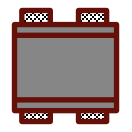
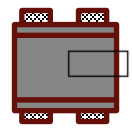
car rotation

Changed region(s): [[0.5152, 0.3636, 1.0, 0.6061]]

diff --git a/src/main/java/edu/ntu/mdpg7algo/visualization/ArenaPanel.java b/src/main/java/edu/ntu/mdpg7algo/visualization/ArenaPanel.java
@@ -1,6 +1,5 @@
 package edu.ntu.mdpg7algo.visualization;
 
-import edu.ntu.mdpg7algo.Simulator;
 import edu.ntu.mdpg7algo.models.Arena;
 import edu.ntu.mdpg7algo.models.Obstacle;
 import lombok.Data;
@@ -10,6 +9,8 @@ import javax.swing.*;
 import java.awt.*;
 import java.awt.event.MouseAdapter;
 import java.awt.event.MouseEvent;
+import java.awt.geom.AffineTransform;
+import java.awt.image.BufferedImage;
 import java.io.File;
 import java.io.IOException;
 
@@ -56,6 +57,9 @@ public class ArenaPanel extends JPanel {
         });
     }
 
+    /**
+     * JFrame x -> cellX
+     */
     private int getCellX(double absX) {
         if (absX < x0 || x0 + w < absX) {
             return -1;
@@ -63,6 +67,9 @@ public class ArenaPanel extends JPanel {
         return (int) ((absX - x0) / cellW);
     }
 
+    /**
+     * JFrame y -> cellY
+     */
     private int getCellY(double absY) {
         if (absY < y0 || y0 + h < absY) {
             return -1;
@@ -70,12 +77,45 @@ public class ArenaPanel extends JPanel {
         return 19 - (int) ((absY - y0) / cellH);
     }
 
+    /**
+     * cellY -> gridY
+     */
     private int convertGridY(int cellY) {
         return 19 - cellY;
     }
 
+    /**
+     * arena x -> JFrame x
+     */
+    private int convertJFrameX(double x) {
+        return (int) (x / (Arena.CELL_WIDTH * Arena.NUM_COLS) * w) + x0;
+    }
+
+    /**
+     * arena y -> JFrame y
+     */
+    private int convertJFrameY(double y) {
+        return (int) (h - (y / (Arena.CELL_HEIGHT * Arena.NUM_ROWS) * h) + y0);
+    }
+
+    private BufferedImage rotateImage(BufferedImage img, double rads, int w, int h, int newWidth, int newHeight) {
+        BufferedImage rotated = new BufferedImage(newWidth, newHeight, BufferedImage.TYPE_INT_ARGB);
+        Graphics2D g2d = rotated.createGraphics();
+        AffineTransform at = new AffineTransform();
+        at.translate((newWidth - w) / 2., (newHeight - h) / 2.);
+
+        int x = w / 2;
+        int y = h / 2;
+
+        at.rotate(rads, x, y);
+        g2d.setTransform(at);
+        g2d.drawImage(img, 0, 0, this);
+        g2d.dispose();
+
+        return rotated;
+    }
+
     public void paintComponent(Graphics g) {
-        System.out.println("called");
         super.paintComponent(g);
         // draw horizontal lines
         for (int i = 0; i <= NUM_ROW; i++) {
@@ -92,9 +132,29 @@ public class ArenaPanel extends JPanel {
         }
 
         try {
-            Image image = ImageIO.read(new File("assets/car.png"));
-            image = image.getScaledInstance(30, 30, Image.SCALE_DEFAULT);
-            double carX = arena.getCar().getPosition().getX(), carY = arena.getCar().getPosition().getY();
+            BufferedImage image = ImageIO.read(new File("assets/car.png"));
+            Image scaledImage = image.getScaledInstance((int) (cellW * 1.5), (int) (cellH * 1.5), Image.SCALE_DEFAULT);
+            image = new BufferedImage((int) (cellW * 1.5), (int) (cellH * 1.5), BufferedImage.TYPE_INT_ARGB);
+            Graphics2D g2d = image.createGraphics();
+            g2d.drawImage(scaledImage, 0, 0, null);
+            g2d.dispose();
+
+            double rads = arena.getCar().getPosition().getTheta();
+            double sin = Math.abs(Math.sin(rads)), cos = Math.abs(Math.cos(rads));
+            int imageWidth = image.getWidth();
+            int imageHeight = image.getHeight();
+            int newWidth = (int) Math.floor(imageWidth * cos + imageHeight * sin);
+            int newHeight = (int) Math.floor(imageHeight * cos + imageWidth * sin);
+
+            image = rotateImage(image, -arena.getCar().getPosition().getTheta(), imageWidth, imageHeight, newWidth, newHeight);
+
+            double carX = convertJFrameX(arena.getCar().getPosition().getX());
+            double carY = convertJFrameY(arena.getCar().getPosition().getY());
+
+            carX -= newWidth / 2.;
+            carY -= newHeight / 2.;
+
+            System.out.println(carX + " " + carY);
             g.drawImage(image, (int) carX, (int) carY, this);
         }
         catch (IOException ioException) {
@@ -164,11 +224,14 @@ class ObstacleMenu extends JPopupMenu {
         }
         else {
             JMenuItem removeObstacleItem = new JMenuItem("Remove obstacle");
-            removeObstacleItem.addActionListener((e) -> arena.removeObstacle(cellX, cellY));
+            removeObstacleItem.addActionListener((e) -> {
+                arena.removeObstacle(cellX, cellY);
+                refreshPanel();
+            });
             add(removeObstacleItem);
 
             JMenu changeFacingMenu = new JMenu("Change image facing");
-            for (Obstacle.Facing facing: Obstacle.Facing.values()) {
+            for (Obstacle.Facing facing : Obstacle.Facing.values()) {
                 JMenuItem changeFacingItem = new JMenuItem(facing.toString());
                 changeFacingItem.addActionListener((e) -> {
                     obstacle.setFacing(facing);
@@ -179,7 +242,7 @@ class ObstacleMenu extends JPopupMenu {
             add(changeFacingMenu);
 
             JMenu changeImageMenu = new JMenu("Change image");
-            for (Obstacle.ObstacleImage obstacleImage: Obstacle.ObstacleImage.values()) {
+            for (Obstacle.ObstacleImage obstacleImage : Obstacle.ObstacleImage.values()) {
                 JMenuItem changeImageItem = new JMenuItem(obstacleImage.toString());
                 changeImageItem.addActionListener((e) -> {
                     obstacle.setObstacleImage(obstacleImage);

diff --git a/src/main/java/edu/ntu/mdpg7algo/Simulator.java b/src/main/java/edu/ntu/mdpg7algo/Simulator.java
@@ -20,14 +20,14 @@ public class Simulator extends JFrame {
 
         arena = new Arena();
         arena.addObstacle(new Obstacle(8, 11, Obstacle.Facing.DOWN, Obstacle.ObstacleImage.A));
-        arena.setCar(new Car(15, 15, Math.PI / 2));
-        arenaPanel = new ArenaPanel(30, 30, 30, 30, arena);
+        arena.setCar(new Car(30, 35, Math.PI * 2 / 3));
+        arenaPanel = new ArenaPanel(40, 40, 30, 30, arena);
 
         add(arenaPanel);
 
         setDefaultCloseOperation(JFrame.EXIT_ON_CLOSE);
         setResizable(false);
-        setSize(1280, 720);
+        setSize(720, 720);
         setVisible(true);
     }
 
